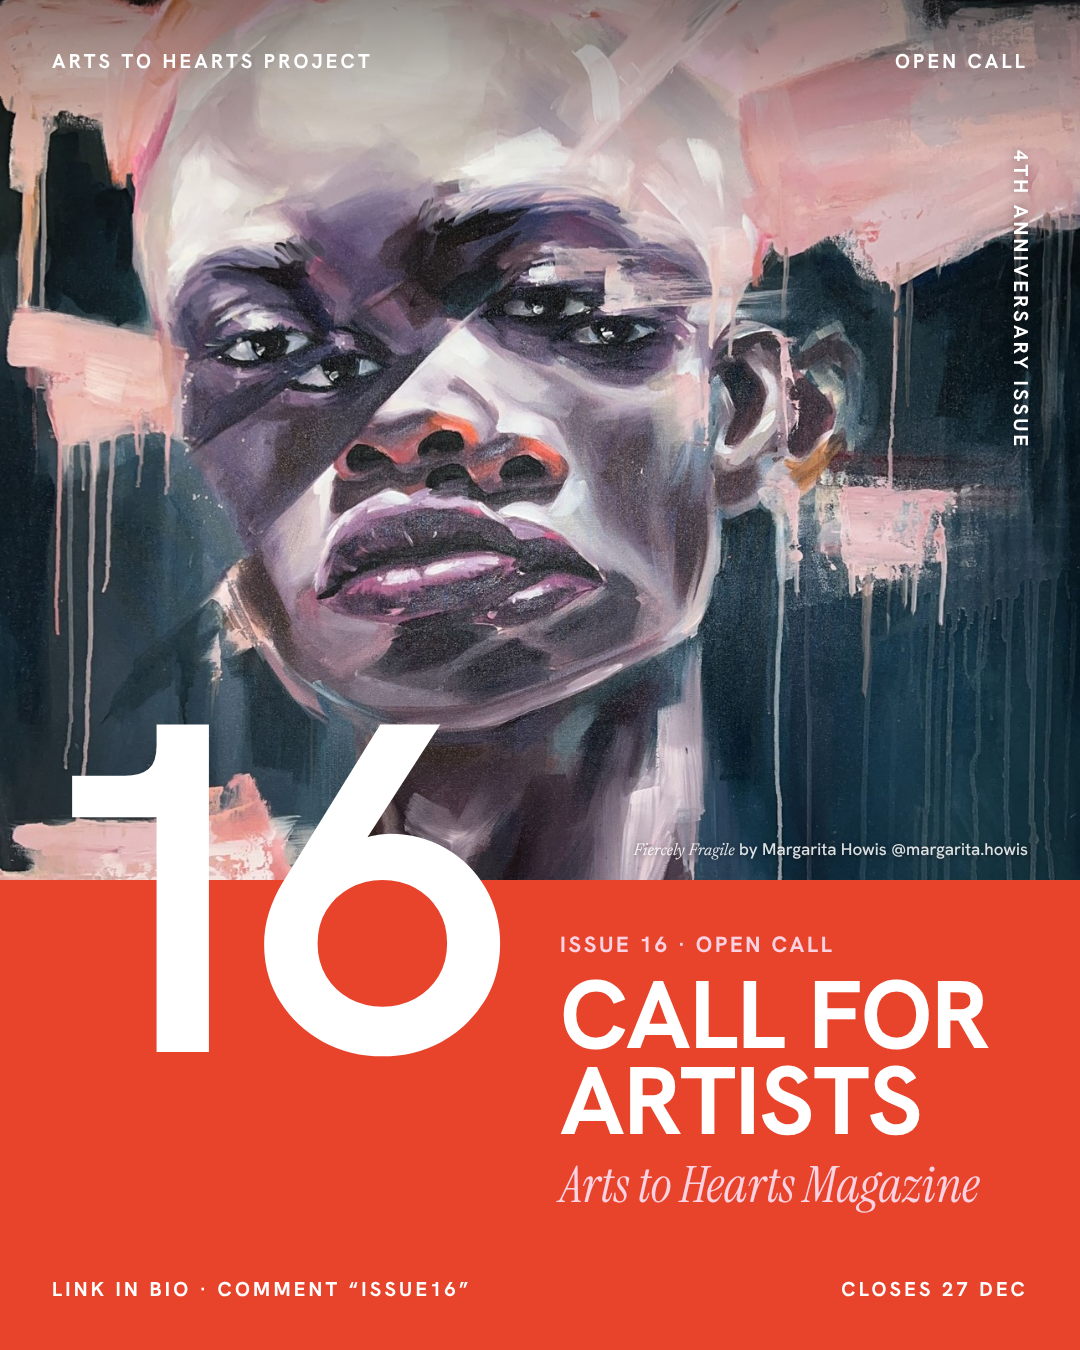
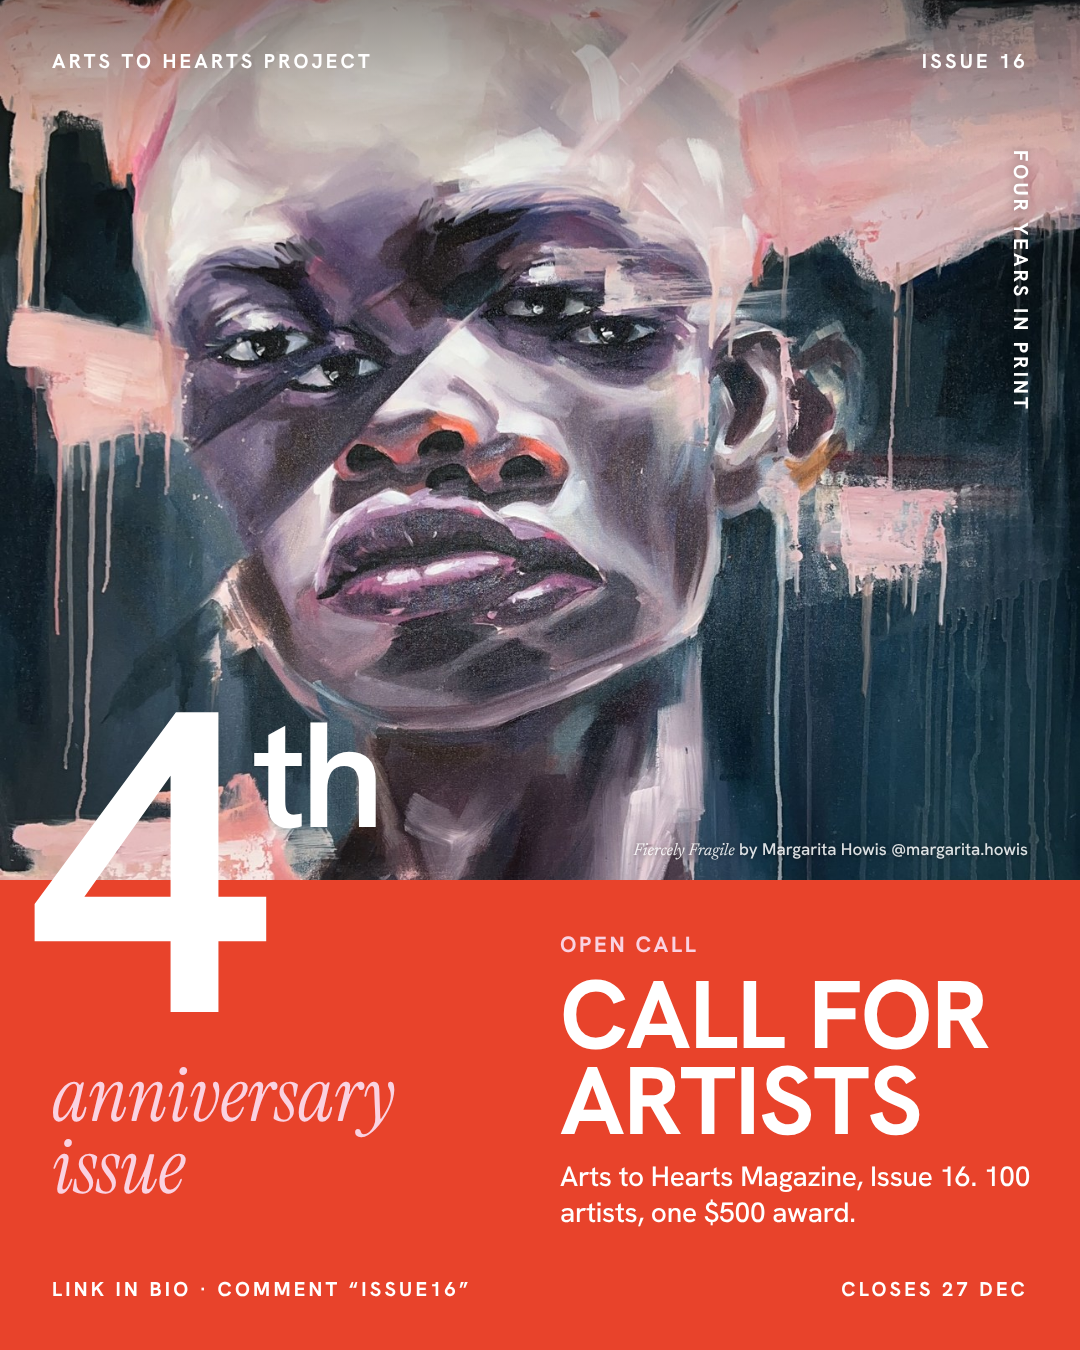
Issue 16 cover: 4th anniversary across the seam instead of 16
Claude-Session: https://claude.ai/code/session_01Bc4gkdxg6i3YRuybqzVB3k

diff --git a/site/post-studio/drafts/issue16/index.html b/site/post-studio/drafts/issue16/index.html
@@ -50,13 +50,14 @@ const S = [];
 { const [src, t, a, h] = ART.howis; S.push({bg: C, html: `
   <div class="a img" style="left:0;right:0;top:0;height:880px;background-image:url(${src});background-position:center 28%"></div>
   <div class="a" style="left:0;right:0;top:0;height:160px;background:linear-gradient(180deg,rgba(20,14,12,.42),rgba(20,14,12,0))"></div>
-  <p class="a cn" style="left:52px;top:48px;color:${W}">Arts to Hearts Project</p><p class="a cn" style="right:52px;top:48px;color:${W}">Open call</p>
-  <p class="a cn" style="right:46px;top:150px;writing-mode:vertical-rl;color:${W};text-shadow:0 1px 8px rgba(0,0,0,.35)">4th anniversary issue</p>
+  <p class="a cn" style="left:52px;top:48px;color:${W}">Arts to Hearts Project</p><p class="a cn" style="right:52px;top:48px;color:${W}">Issue 16</p>
+  <p class="a cn" style="right:46px;top:150px;writing-mode:vertical-rl;color:${W};text-shadow:0 1px 8px rgba(0,0,0,.35)">Four years in print</p>
   <p class="a crd" style="right:52px;top:838px;text-align:right;color:${W};text-shadow:0 1px 6px rgba(0,0,0,.6)">${credit(t, a, h)}</p>
-  <p class="a" style="left:26px;top:700px;font-size:470px;font-weight:600;letter-spacing:-.07em;line-height:.8;color:${W}">16</p>
-  <p class="a lab" style="left:560px;top:930px;color:${T}">Issue 16 · Open call</p>
+  <p class="a" style="left:30px;top:690px;font-size:430px;font-weight:600;letter-spacing:-.07em;line-height:.8;color:${W}">4<span style="font-size:150px;letter-spacing:-.04em;vertical-align:top;line-height:1;position:relative;top:10px;margin-left:12px">th</span></p>
+  <p class="a scr" style="left:52px;top:1060px;font-size:76px;line-height:.95;color:${T}">anniversary<br>issue</p>
+  <p class="a lab" style="left:560px;top:930px;color:${T}">Open call</p>
   <p class="a" style="left:560px;right:52px;top:972px;font-size:96px;font-weight:700;letter-spacing:-.01em;line-height:.9;text-transform:uppercase;color:${W}">Call for<br>artists</p>
-  <p class="a scr" style="left:560px;right:40px;top:1160px;font-size:50px;line-height:1;white-space:nowrap;color:${T}">Arts to Hearts Magazine</p>
+  <p class="a sub" style="left:560px;right:40px;top:1158px;font-size:28px;line-height:1.3;color:${W}">Arts to Hearts Magazine, Issue 16. 100 artists, one $500 award.</p>
   <p class="a cn" style="left:52px;bottom:48px;color:${W}">Link in bio · comment “${KEY}”</p><p class="a cn" style="right:52px;bottom:48px;color:${W}">${CLOSES}</p>`}); }
 
 // 2 · FOUR YEARS IN PRINT
